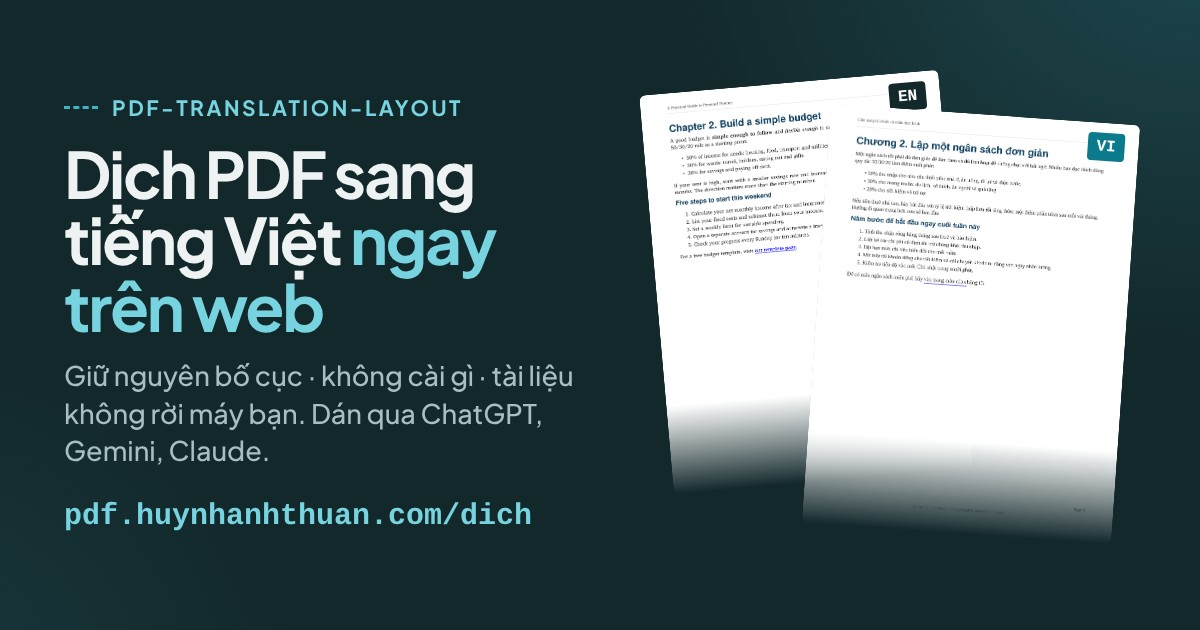
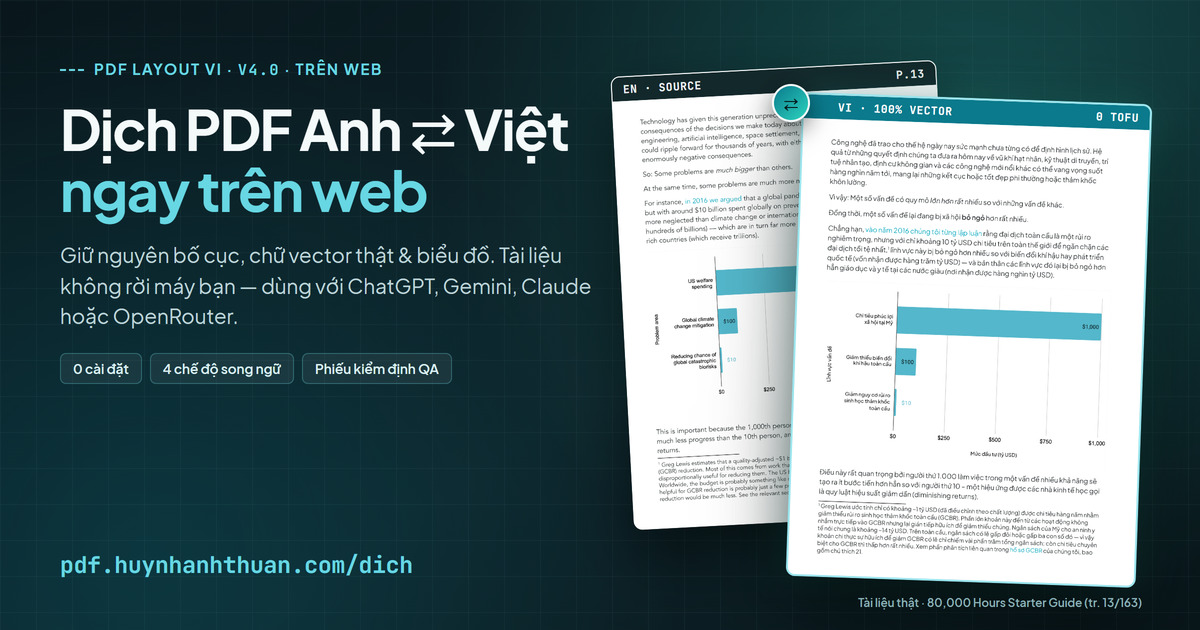
sync(web+desktop): add direct Google Gemini API & thinkingConfig, sync v4.0 OG assets, and allow trusted website CORS bridge

diff --git a/assets/js/dich-app.js b/assets/js/dich-app.js
@@ -6,7 +6,8 @@
   var $$ = function (s) { return Array.prototype.slice.call(document.querySelectorAll(s)); };
 
   var PASTE_CHARS = 6000, API_CHARS = 8000, FAST_CHARS = 4000, MAX_MB = 80;
-  var PREFERRED_MODELS = ["google/gemini-2.5-flash", "google/gemini-2.5-pro", "anthropic/claude-sonnet-4.5",
+  var GEMINI_MODELS = ["gemini-2.5-flash", "gemini-3-flash-preview", "gemini-3.1-flash-lite-preview", "gemini-3.1-pro-preview"];
+  var PREFERRED_MODELS = ["google/gemini-2.5-flash", "google/gemini-3-flash-preview", "anthropic/claude-sonnet-4.5",
     "openai/gpt-4.1-mini", "openai/gpt-4o-mini", "deepseek/deepseek-chat-v3.1", "deepseek/deepseek-chat"];
 
   // Quy tắc dịch lấy từ bộ máy (dich_pdf.QUY_TAC) theo chiều của tài liệu, để mọi kênh dùng chung một bản
@@ -79,7 +80,7 @@
       try { localStorage.setItem(storeKey(), v); }
       catch (e) {
         try {   // đầy bộ nhớ: xóa bản lưu cũ của file khác rồi thử lại
-          Object.keys(localStorage).forEach(function (k) { if (k.indexOf("ptl:") === 0 && k !== storeKey() && k !== "ptl:or-key") localStorage.removeItem(k); });
+          Object.keys(localStorage).forEach(function (k) { if (k.indexOf("ptl:") === 0 && k !== storeKey() && k !== "ptl:or-key" && k !== "ptl:gemini-key") localStorage.removeItem(k); });
           localStorage.setItem(storeKey(), v);
         } catch (e2) { /* không lưu được: bỏ qua */ }
       }
@@ -250,30 +251,65 @@
     else { ta.select(); document.execCommand("copy"); ok(); }
   }
 
-  /* ---------- Khóa API: OpenRouter ---------- */
+  /* ---------- Khóa API: Google Gemini API & OpenRouter ---------- */
   var modelsLoaded = false;
-  function getKey() {
-    try { return localStorage.getItem("ptl:or-key") || sessionStorage.getItem("ptl:or-key") || ""; } catch (e) { return ""; }
+  function apiProvider() {
+    var el = $("#api-provider");
+    return (el && el.value) || "gemini";
   }
-  function putKey(k, remember) {
+  function keyStorageName(prov) { return prov === "openrouter" ? "ptl:or-key" : "ptl:gemini-key"; }
+  function getKey(prov) {
+    var name = keyStorageName(prov || apiProvider());
+    try { return localStorage.getItem(name) || sessionStorage.getItem(name) || ""; } catch (e) { return ""; }
+  }
+  function putKey(k, remember, prov) {
+    var name = keyStorageName(prov || apiProvider());
     try {
-      sessionStorage.setItem("ptl:or-key", k);
-      if (remember) localStorage.setItem("ptl:or-key", k); else localStorage.removeItem("ptl:or-key");
+      sessionStorage.setItem(name, k);
+      if (remember) localStorage.setItem(name, k); else localStorage.removeItem(name);
     } catch (e) { /* bỏ qua */ }
   }
+  function syncApiProviderUI(keepKey) {
+    var prov = apiProvider();
+    var isGem = prov === "gemini";
+    setText("#api-key-label", isGem ? "Khóa Google Gemini API" : "Khóa OpenRouter");
+    $("#api-key").placeholder = isGem ? "AIzaSy…" : "sk-or-…";
+    setText("#api-key-hint", isGem
+      ? "Khóa chỉ nằm trong trình duyệt này và chỉ gửi tới generativelanguage.googleapis.com. Lấy khóa tại aistudio.google.com/apikey."
+      : "Khóa chỉ nằm trong trình duyệt này và chỉ gửi tới openrouter.ai. Tạo khóa tại openrouter.ai/keys.");
+    $("#api-model").placeholder = isGem ? "gemini-2.5-flash" : "google/gemini-2.5-flash";
+    if (!keepKey) {
+      var k = getKey(prov);
+      $("#api-key").value = k;
+      try { $("#remember-key").checked = !!localStorage.getItem(keyStorageName(prov)); } catch (e) { /* */ }
+    }
+    if (isGem) {
+      $("#model-list").innerHTML = GEMINI_MODELS.map(function (i) { return "<option value='" + esc(i) + "'>"; }).join("");
+      var cur = $("#api-model").value.trim();
+      if (!cur || cur.indexOf("/") >= 0) $("#api-model").value = GEMINI_MODELS[0];
+      setText("#model-hint", "Gợi ý: gemini-2.5-flash (ổn định), gemini-3-flash-preview (mới & nhanh), gemini-3.1-pro-preview (gói trả phí).");
+    } else {
+      var curOr = $("#api-model").value.trim();
+      if (!curOr || curOr.indexOf("/") < 0) $("#api-model").value = PREFERRED_MODELS[0];
+      $("#model-list").innerHTML = PREFERRED_MODELS.map(function (i) { return "<option value='" + esc(i) + "'>"; }).join("");
+      setText("#model-hint", "Nhập mã mô hình trên OpenRouter. Có khóa rồi, danh sách sẽ tự hiện.");
+      loadModels();
+    }
+  }
   function initApi() {
-    var k = getKey();
-    if (k && !$("#api-key").value) { $("#api-key").value = k; try { $("#remember-key").checked = !!localStorage.getItem("ptl:or-key"); } catch (e) { /* */ } }
-    loadModels();
+    var el = $("#api-provider");
+    if (el && !getKey("gemini") && getKey("openrouter")) el.value = "openrouter";
+    syncApiProviderUI(false);
   }
   function loadModels() {
-    if (modelsLoaded) return;
+    if (apiProvider() !== "openrouter" || modelsLoaded) return;
     fetch("https://openrouter.ai/api/v1/models").then(function (r) { return r.json(); }).then(function (d) {
       var ids = (d.data || []).map(function (m) { return m.id; });
       if (!ids.length) return;
       modelsLoaded = true;
+      if (apiProvider() !== "openrouter") return;
       $("#model-list").innerHTML = ids.map(function (i) { return "<option value='" + esc(i) + "'>"; }).join("");
-      if (!$("#api-model").value) {
+      if (!$("#api-model").value || $("#api-model").value.indexOf("/") < 0) {
         var pick = PREFERRED_MODELS.filter(function (p) { return ids.indexOf(p) >= 0; })[0];
         if (pick) $("#api-model").value = pick;
       }
@@ -282,6 +318,51 @@
   }
 
   function sleep(ms) { return new Promise(function (r) { setTimeout(r, ms); }); }
+
+  function geminiThinkingConfig(model) {
+    var m = String(model || "").toLowerCase();
+    if (m.indexOf("gemini-3") === 0) return m.indexOf("pro") >= 0 ? { thinkingLevel: "low" } : { thinkingLevel: "minimal" };
+    if (m.indexOf("gemini-2.5") === 0) return m.indexOf("pro") >= 0 ? { thinkingBudget: 128 } : { thinkingBudget: 0 };
+    return null;
+  }
+
+  function askGemini(key, model, items, tries) {
+    tries = tries || 0;
+    var mdl = String(model || "gemini-2.5-flash").replace(/^models\//, "");
+    var sysPrompt = rules().replace("trong cuộc trò chuyện này", "trong toàn bộ tài liệu") + "\n" + rulesEnd(items.length);
+    var userPrompt = items.map(function (it) { return JSON.stringify(it); }).join("\n");
+    var genCfg = { temperature: 0, maxOutputTokens: 16384, responseMimeType: "application/json" };
+    var tcfg = geminiThinkingConfig(mdl);
+    if (tcfg) genCfg.thinkingConfig = tcfg;
+    return fetch("https://generativelanguage.googleapis.com/v1beta/models/" + encodeURIComponent(mdl) + ":generateContent", {
+      method: "POST",
+      headers: { "Content-Type": "application/json", "x-goog-api-key": key },
+      body: JSON.stringify({
+        systemInstruction: { parts: [{ text: sysPrompt }] },
+        contents: [{ role: "user", parts: [{ text: userPrompt }] }],
+        generationConfig: genCfg
+      })
+    }).then(function (res) {
+      if (res.status === 429 || res.status >= 500) {
+        if (tries < 4) return sleep(2000 * Math.pow(2, tries)).then(function () { return askGemini(key, mdl, items, tries + 1); });
+      }
+      return res.json().catch(function () { return {}; }).then(function (d) {
+        if (!res.ok) {
+          var m = (d.error && d.error.message) || ("HTTP " + res.status);
+          if (res.status === 400 && /API key/i.test(m)) m = "Khóa Google Gemini API không đúng hoặc chưa kích hoạt.";
+          if (res.status === 401 || res.status === 403) m = "Khóa Google Gemini API không có quyền truy cập mô hình này.";
+          if (res.status === 404) m = "Mô hình " + mdl + " không còn khả dụng. Hãy chọn gemini-2.5-flash hoặc gemini-3-flash-preview.";
+          if (res.status === 429) m = "Hết hạn mức (429) cho " + mdl + ". Hãy thử gemini-2.5-flash hoặc gemini-3-flash-preview, hoặc nâng gói trả phí.";
+          throw new Error(m);
+        }
+        var parts = d.candidates && d.candidates[0] && d.candidates[0].content && d.candidates[0].content.parts;
+        var text = parts ? parts.map(function (p) { return p.text || ""; }).join("").trim() : "";
+        if (!text) throw new Error("Gemini không trả về nội dung.");
+        var u = d.usageMetadata || {};
+        return { text: text, usage: { total_tokens: u.totalTokenCount || 0 } };
+      });
+    });
+  }
 
   function askOpenRouter(key, model, items, tries) {
     tries = tries || 0;
@@ -312,10 +393,10 @@
   }
 
   function runApi() {
-    var key = $("#api-key").value.trim(), model = $("#api-model").value.trim();
-    if (!key) { trStatus("Hãy nhập khóa OpenRouter.", true); $("#api-key").focus(); return; }
+    var prov = apiProvider(), key = $("#api-key").value.trim(), model = $("#api-model").value.trim();
+    if (!key) { trStatus("Hãy nhập khóa " + (prov === "gemini" ? "Google Gemini API." : "OpenRouter."), true); $("#api-key").focus(); return; }
     if (!model) { trStatus("Hãy nhập mã mô hình.", true); $("#api-model").focus(); return; }
-    putKey(key, $("#remember-key").checked);
+    putKey(key, $("#remember-key").checked, prov);
     S.stop = false; S.running = true; show("#api-stop", true); $("#api-run").disabled = true;
     var tokens = 0, stuck = 0, lastDone = -1;
     function step() {
@@ -327,10 +408,11 @@
         lastDone = r.done;
         if (stuck >= 3) throw new Error("Mô hình nhiều lần không trả đủ bản dịch. Thử mô hình khác, hoặc dùng cách Dán.");
         S.ids = r.items.map(function (i) { return i.id; });
-        trStatus("Đang dịch " + r.items.length + " đoạn…" + (tokens ? " Đã dùng " + plural(tokens) + " token." : ""));
-        return askOpenRouter(key, model, r.items).then(function (ans) {
+        trStatus("Đang dịch " + r.items.length + " đoạn bằng " + (prov === "gemini" ? "Google Gemini" : "OpenRouter") + " (" + model + ")…" + (tokens ? " Đã dùng " + plural(tokens) + " token." : ""));
+        var ask = prov === "gemini" ? askGemini(key, model, r.items) : askOpenRouter(key, model, r.items);
+        return ask.then(function (ans) {
           tokens += (ans.usage.total_tokens || 0);
-          return loadText(ans.text);
+          return loadText(stripCodeFences(ans.text));
         }).then(function (lr) { showWarnings(lr.warnings); return step(); });
       });
     }
@@ -695,6 +777,13 @@
     $("#redo-warn").addEventListener("click", redoWarnings);
     $("#api-run").addEventListener("click", runApi);
     $("#api-stop").addEventListener("click", function () { S.stop = true; });
+    if ($("#api-provider")) $("#api-provider").addEventListener("change", function () { syncApiProviderUI(false); });
+    $("#api-key").addEventListener("input", function () {
+      var v = $("#api-key").value.trim(), p = $("#api-provider");
+      if (!p) return;
+      if (/^AIza[0-9A-Za-z_-]{10,}/.test(v) && p.value !== "gemini") { p.value = "gemini"; syncApiProviderUI(true); }
+      else if (/^sk-or-/i.test(v) && p.value !== "openrouter") { p.value = "openrouter"; syncApiProviderUI(true); }
+    });
     $("#api-key").addEventListener("change", loadModels);
     $("#cli-refresh").addEventListener("click", initCli);
     $("#cli-run").addEventListener("click", runCli);

diff --git a/dich.html b/dich.html
@@ -32,7 +32,7 @@
   <div class="wrap">
     <a class="brand" href="./" aria-label="pdf-translation-layout, về trang chủ">
       <img src="assets/img/favicon.svg" alt="" width="26" height="26">
-      <span>pdf-translation-layout <span class="mono" data-version>v3.1.0</span></span>
+      <span>pdf-translation-layout <span class="mono" data-version>v4.0.0</span></span>
     </a>
     <nav class="nav" aria-label="Mục lục">
       <a href="./">Trang chủ</a>
@@ -101,8 +101,8 @@
           <span class="mc-h">Tự động bằng AI CLI trên máy <em>khuyên dùng trên .exe</em></span>
           <span class="mc-p" id="cli-mode-note">Dùng trực tiếp Claude Code, Codex, Gemini, Muse, Ollama đã đăng nhập trên Windows. Không tốn phí API riêng, tự chạy hết từng lô.</span></label>
         <label class="mode-card"><input type="radio" name="mode" value="api">
-          <span class="mc-h">Tự động bằng khóa API</span>
-          <span class="mc-p">Dùng khóa OpenRouter của bạn, trang tự gửi từng lô và nạp kết quả. Bạn trả phí theo lượng chữ cho OpenRouter.</span></label>
+          <span class="mc-h">Tự động bằng khóa API (Google Gemini / OpenRouter)</span>
+          <span class="mc-p">Dùng trực tiếp khóa Google Gemini API (AI Studio / Google AI Pro) hoặc OpenRouter. Trang tự gửi từng lô và nạp kết quả ngay trong trình duyệt.</span></label>
         <label class="mode-card"><input type="radio" name="mode" value="fast">
           <span class="mc-h">Dịch nhanh trên máy</span>
           <span class="mc-p" id="fast-note">Dùng bộ dịch có sẵn trong Chrome trên máy tính, không gửi chữ đi đâu. Chất lượng như máy dịch, hợp để đọc lướt.</span></label>
@@ -156,7 +156,7 @@
             <label for="cli-model">Mô hình (để trống = mặc định của CLI)</label>
             <input class="input mono" id="cli-model" list="cli-model-list" placeholder="mặc định">
             <datalist id="cli-model-list"></datalist>
-            <p class="hint">Ví dụ: <span class="mono">sonnet</span> (Claude), <span class="mono">gpt-5.4-mini</span> (Codex), <span class="mono">gemini-2.5-flash</span> (Gemini).</p>
+            <p class="hint">Ví dụ: <span class="mono">gemini-3-flash-preview</span> / <span class="mono">gemini-2.5-flash</span> (Gemini), <span class="mono">sonnet</span> (Claude), <span class="mono">gpt-5.4-mini</span> (Codex).</p>
           </div>
           <div class="field">
             <label for="cli-chars">Ký tự mỗi lô gửi CLI</label>
@@ -172,14 +172,21 @@
 
       <!-- API -->
       <div class="pane" id="pane-api" hidden>
+        <div class="field" style="margin-bottom:12px">
+          <label for="api-provider">Nhà cung cấp API</label>
+          <select class="select" id="api-provider">
+            <option value="gemini">Google Gemini API (AI Studio / Google AI Pro · AIza…)</option>
+            <option value="openrouter">OpenRouter API (nhiều hãng · sk-or-…)</option>
+          </select>
+        </div>
         <div class="form-row">
-          <div class="field"><label for="api-key">Khóa OpenRouter</label>
-            <input class="input mono" id="api-key" type="password" autocomplete="off" placeholder="sk-or-…">
-            <p class="hint">Khóa chỉ nằm trong trình duyệt này và chỉ gửi tới openrouter.ai. Tạo khóa tại openrouter.ai/keys.</p></div>
+          <div class="field"><label for="api-key" id="api-key-label">Khóa Google Gemini API</label>
+            <input class="input mono" id="api-key" type="password" autocomplete="off" placeholder="AIzaSy…">
+            <p class="hint" id="api-key-hint">Khóa chỉ nằm trong trình duyệt này và chỉ gửi tới generativelanguage.googleapis.com. Lấy khóa tại aistudio.google.com/apikey.</p></div>
           <div class="field"><label for="api-model">Mô hình</label>
-            <input class="input mono" id="api-model" list="model-list" placeholder="google/gemini-2.5-flash">
+            <input class="input mono" id="api-model" list="model-list" placeholder="gemini-2.5-flash">
             <datalist id="model-list"></datalist>
-            <p class="hint" id="model-hint">Nhập mã mô hình trên OpenRouter. Có khóa rồi, danh sách sẽ tự hiện.</p></div>
+            <p class="hint" id="model-hint">Gợi ý: gemini-2.5-flash (ổn định), gemini-3-flash-preview (mới &amp; nhanh), gemini-3.1-pro-preview (gói trả phí).</p></div>
         </div>
         <label class="check" for="remember-key"><input type="checkbox" id="remember-key"><span>Nhớ khóa trên máy này</span></label>
         <div class="cta-row"><button class="btn btn-primary" type="button" id="api-run">Chạy tự động</button><button class="btn btn-ghost" type="button" id="api-stop" hidden>Dừng</button></div>
@@ -245,7 +252,7 @@
       <div class="note-grid">
         <div>
           <h2 id="rieng-tu-h" class="h3">Tài liệu của bạn đi đâu</h2>
-          <p>File PDF được mở và dựng lại ngay trong trình duyệt; trang web không có máy chủ nhận tài liệu. Phần chữ cần dịch chỉ rời máy khi bạn chọn: bạn tự dán sang AI của mình, hoặc trang gửi tới OpenRouter bằng khóa của bạn. Chế độ dịch nhanh của Chrome chạy trên máy, không gửi chữ đi.</p>
+          <p>File PDF được mở và dựng lại ngay trong trình duyệt; trang web không có máy chủ nhận tài liệu. Phần chữ cần dịch chỉ rời máy khi bạn chọn: bạn tự dán sang AI của mình, nối cầu tới ứng dụng Desktop trên máy bạn, hoặc trang gửi trực tiếp tới Google Gemini API / OpenRouter bằng khóa của bạn. Chế độ dịch nhanh của Chrome chạy trên máy, không gửi chữ đi.</p>
           <p>Bộ máy (Pyodide và thư viện PDF, khoảng 30 MB) được tải từ jsDelivr và PyPI, hai kho phân phối mã nguồn mở công khai. Các dịch vụ này chỉ thấy trình duyệt của bạn tải thư viện, không thấy tài liệu. Mọi file tải về đều được kiểm mã SHA-256 trước khi chạy, nên trang chỉ chạy đúng bộ máy đã kiểm thử; file nào không tải được hoặc sai mã thì trang tự lấy bản dự phòng trên website.</p>
           <p>Bản dịch dở được lưu tạm trong trình duyệt này để bạn mở lại làm tiếp; xóa bằng nút “Dịch file khác”.</p>
         </div>

diff --git a/privacy.html b/privacy.html
@@ -47,7 +47,7 @@
 
       <h2>Nơi lưu trữ</h2>
       <p>Dữ liệu đăng ký được lưu trong một bảng tính Google Sheets thuộc tài khoản Google của người phát hành. Email được gửi từ hello@huynhanhthuan.com qua dịch vụ gửi email Mailtrap; Mailtrap chỉ nhận địa chỉ, tên và nội dung thư để gửi đi, và giữ nhật ký gửi trong thời gian ngắn theo chính sách của họ. Trang web được lưu trữ trên Vercel; font chữ phụ được tải từ Google Fonts.</p>
-      <p>Trang dịch trên web (/dich) không nhận và không lưu tài liệu của bạn: file PDF được xử lý ngay trong trình duyệt. Bộ máy dịch được tải từ jsDelivr và PyPI (các dịch vụ này thấy địa chỉ IP khi trình duyệt tải thư viện). Phần chữ cần dịch chỉ được gửi đi khi bạn tự dán sang AI của mình, hoặc khi bạn dùng khóa OpenRouter của bạn (khi đó chữ đi tới OpenRouter theo chính sách của họ). Khóa API và bản dịch dở chỉ lưu trong trình duyệt của bạn.</p>
+      <p>Trang dịch trên web (/dich) không nhận và không lưu tài liệu của bạn: file PDF được xử lý ngay trong trình duyệt. Bộ máy dịch được tải từ jsDelivr và PyPI (các dịch vụ này thấy địa chỉ IP khi trình duyệt tải thư viện). Phần chữ cần dịch chỉ được gửi đi khi bạn tự dán sang AI của mình, hoặc khi bạn dùng khóa Google Gemini API / OpenRouter của bạn (khi đó chữ đi trực tiếp tới nhà cung cấp AI đó theo chính sách của họ). Khóa API và bản dịch dở chỉ lưu trong trình duyệt của bạn.</p>
 
       <h2>Thời gian lưu</h2>
       <p>Dữ liệu được giữ đến khi bạn yêu cầu xóa, hoặc khi gói kỹ năng ngừng được phát triển.</p>

diff --git a/desktop/app/index.html b/desktop/app/index.html
@@ -44,7 +44,7 @@
           <button class="nav-btn is-active" data-view="connectors" type="button" title="Alt+1">
             <svg class="nav-ic" viewBox="0 0 24 24" fill="none" stroke="currentColor" stroke-width="1.8" aria-hidden="true"><path d="M12 2v6m0 8v6M4.93 4.93l4.24 4.24m5.66 5.66 4.24 4.24M2 12h6m8 0h6M4.93 19.07l4.24-4.24m5.66-5.66 4.24-4.24"/></svg>
             <span class="nav-txt">Kết nối AI</span>
-            <span class="nav-badge" id="badge-ready">0/10</span>
+            <span class="nav-badge" id="badge-ready">0/11</span>
           </button>
           <button class="nav-btn" data-view="workspace" type="button" title="Alt+2">
             <svg class="nav-ic" viewBox="0 0 24 24" fill="none" stroke="currentColor" stroke-width="1.8" aria-hidden="true"><path d="M14 2H6a2 2 0 0 0-2 2v16a2 2 0 0 0 2 2h12a2 2 0 0 0 2-2V8z"/><polyline points="14 2 14 8 20 8"/><line x1="8" y1="13" x2="16" y2="13"/><line x1="8" y1="17" x2="13" y2="17"/></svg>
@@ -100,7 +100,7 @@
               <div class="pane-head">
                 <div>
                   <h1>Kết nối nền tảng AI</h1>
-                  <p class="sub">Kết nối trực tiếp 10 CLI/API trên Windows kèm <strong>Auto-Failover</strong> và <strong>Bộ nhớ dịch TM 0 ms</strong>.</p>
+                  <p class="sub">Kết nối trực tiếp 11 CLI/API trên Windows kèm <strong>Auto-Failover</strong> và <strong>Bộ nhớ dịch TM 0 ms</strong>.</p>
                 </div>
                 <div class="head-actions">
                   <button class="btn btn-ghost" id="btn-ping-all" type="button">Ping các AI sẵn sàng</button>

diff --git a/index.html b/index.html
@@ -33,7 +33,7 @@
   <div class="wrap">
     <a class="brand" href="#top" aria-label="pdf-translation-layout, về đầu trang">
       <img src="assets/img/favicon.svg" alt="" width="26" height="26">
-      <span>pdf-translation-layout <span class="mono" data-version>v3.1.0</span></span>
+      <span>pdf-translation-layout <span class="mono" data-version>v4.0.0</span></span>
     </a>
     <nav class="nav" aria-label="Mục lục">
       <a href="dich">Dịch trên web</a>

diff --git a/dung-voi-claude.html b/dung-voi-claude.html
@@ -28,7 +28,7 @@
   <div class="wrap">
     <a class="brand" href="./" aria-label="pdf-translation-layout, về trang chủ">
       <img src="assets/img/favicon.svg" alt="" width="26" height="26">
-      <span>pdf-translation-layout <span class="mono" data-version>v3.1.0</span></span>
+      <span>pdf-translation-layout <span class="mono" data-version>v4.0.0</span></span>
     </a>
     <nav class="nav" aria-label="Mục lục">
       <a href="#buoc">Bốn bước</a>

diff --git a/chat-luong.html b/chat-luong.html
@@ -28,7 +28,7 @@
   <div class="wrap">
     <a class="brand" href="./" aria-label="pdf-translation-layout, về trang chủ">
       <img src="assets/img/favicon.svg" alt="" width="26" height="26">
-      <span>pdf-translation-layout <span class="mono" data-version>v3.1.0</span></span>
+      <span>pdf-translation-layout <span class="mono" data-version>v4.0.0</span></span>
     </a>
     <nav class="nav" aria-label="Mục lục">
       <a href="#do-gi">Đo gì</a>
